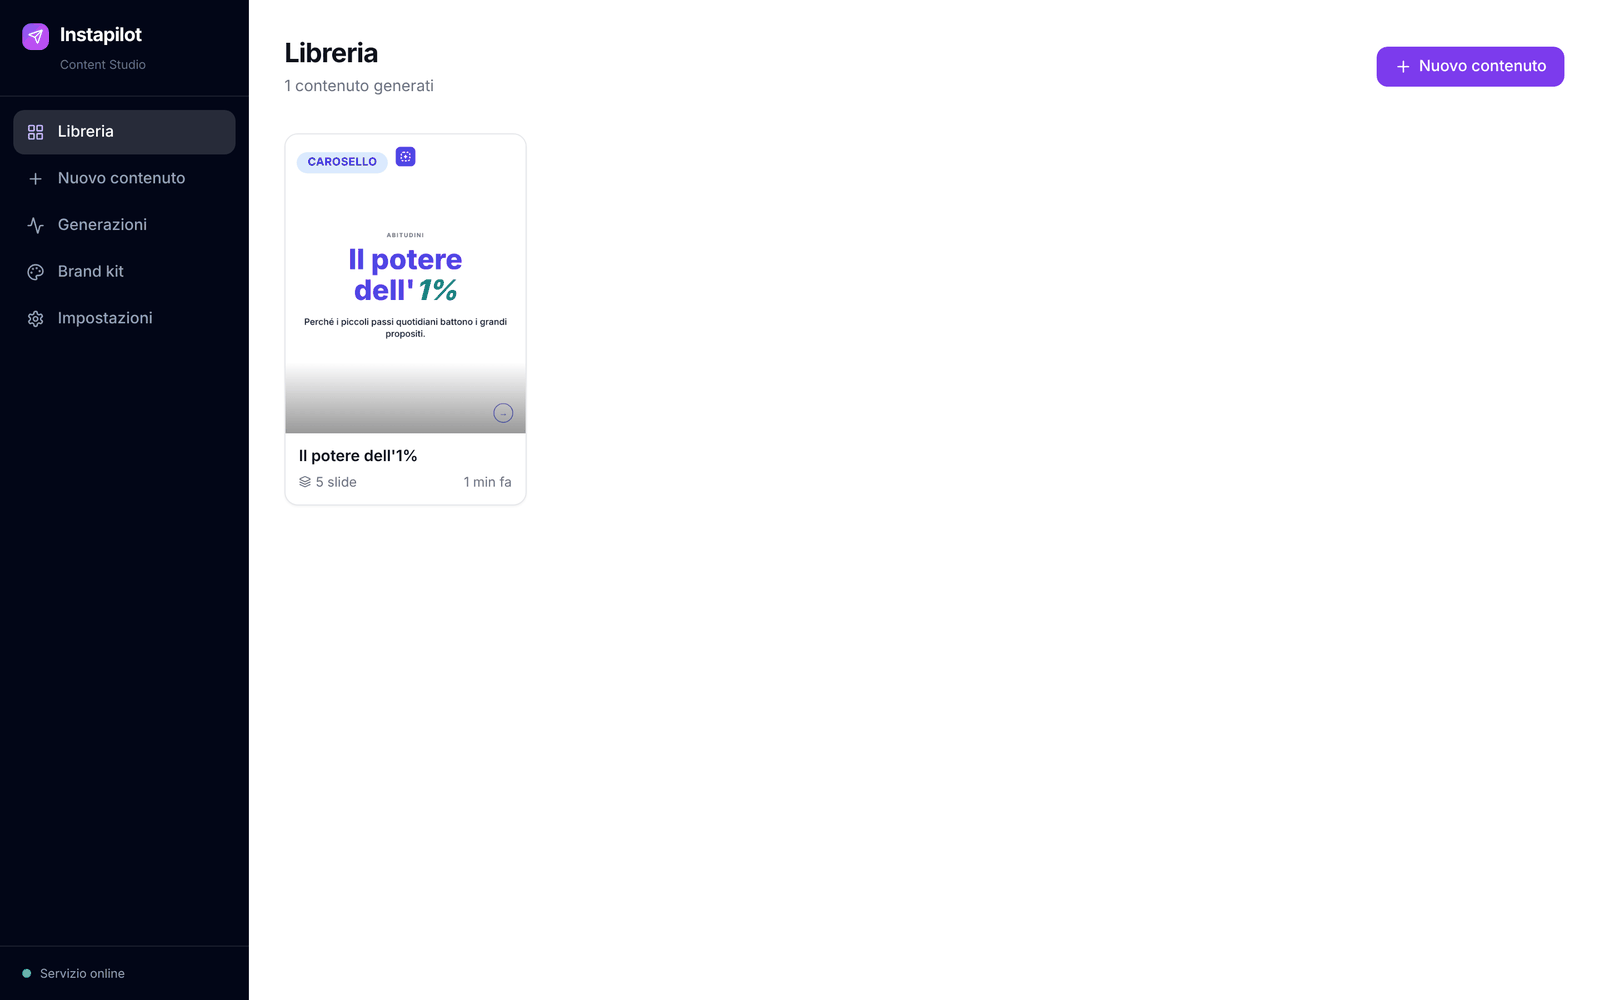
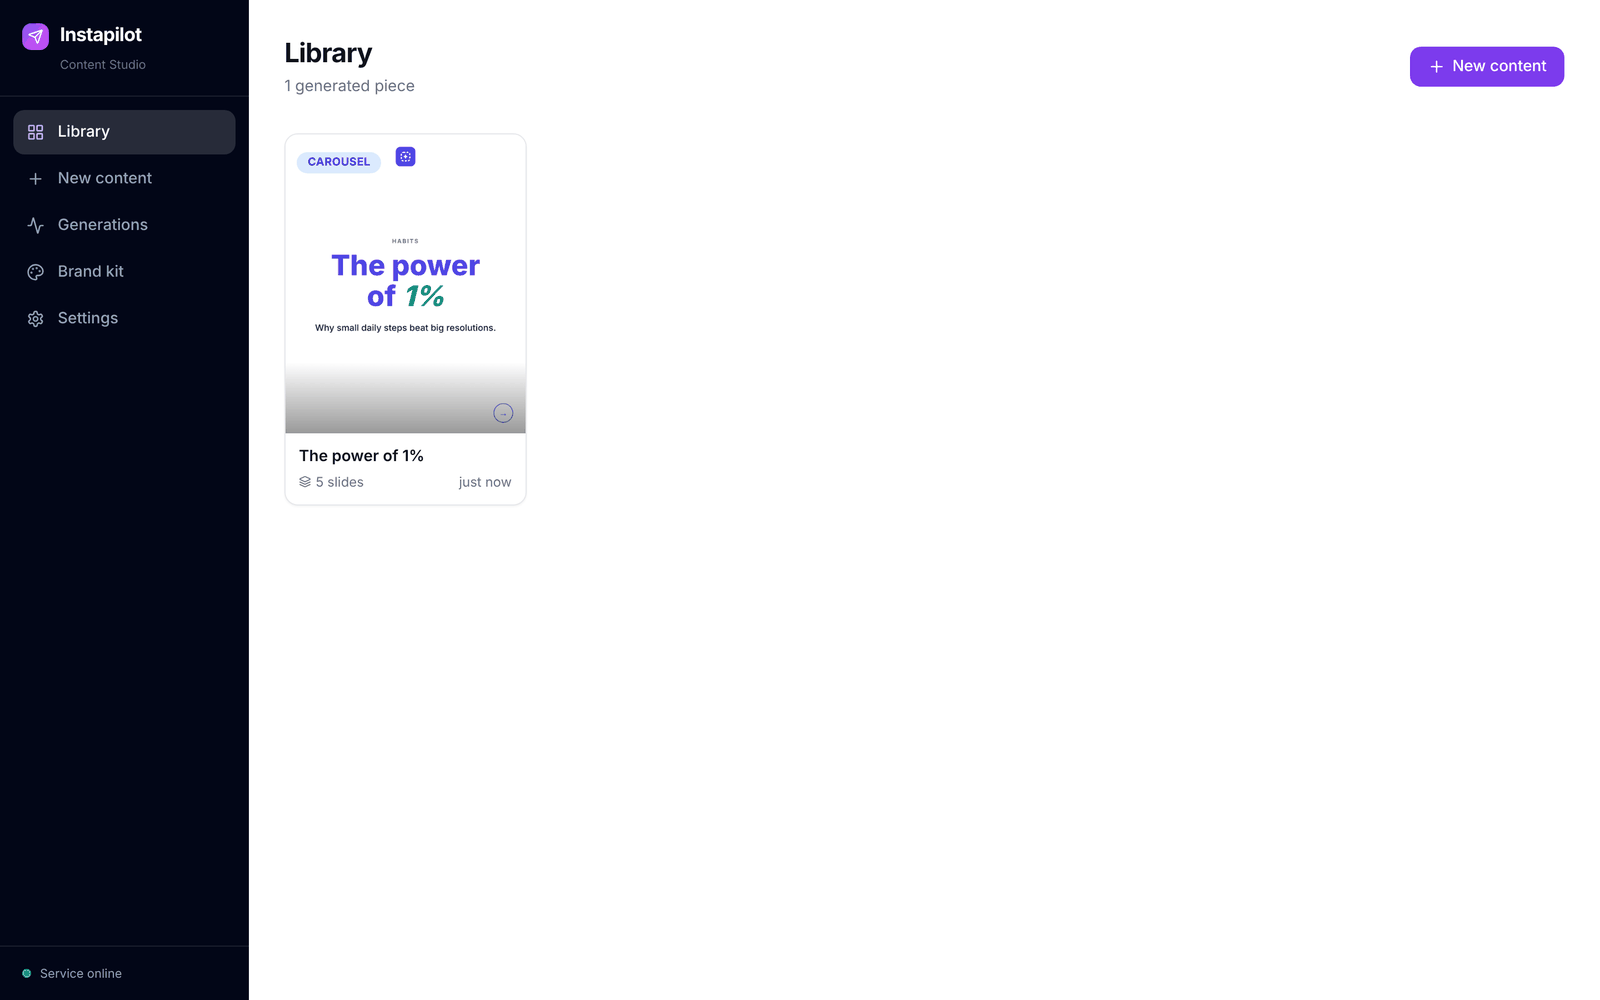
docs: refresh README and screenshots for the English UI
Claude-Session: https://claude.ai/code/session_01D4xZriNxC1abkSzLHtmcJC

diff --git a/README.md b/README.md
@@ -78,8 +78,6 @@ Instapilot covers the whole path, and does it **while respecting your brand**:
 
 ## Screenshots
 
-> The Studio UI is currently in Italian.
-
 <table>
   <tr>
     <td width="50%"><img src="docs/assets/screenshots/library.png" alt="Library"><br><sub><b>Library</b> — every generated piece, with a cover preview.</sub></td>
@@ -175,7 +173,7 @@ and served by the same server: no second process needed.
 
 ### 3. Connect the LLM provider
 
-Go to **Settings** (*Impostazioni*), paste the API key (and optionally base URL and model) and save.
+Go to **Settings**, paste the API key (and optionally base URL and model) and save.
 The configuration stays local in `data/config.json`.
 
 > Alternatively: `cp .env.example .env` and set `OPENAI_API_KEY=sk-...`.
@@ -186,7 +184,7 @@ In **Brand kit** set name, audience, tone, **content language**, the 6 colors, t
 
 ### 5. Generate
 
-**New content** (*Nuovo contenuto*) → write the topic → **Generate**. Follow the progress in
+**New content** → write the topic → **Generate**. Follow the progress in
 *Generations*; when the job finishes the piece shows up in the *Library*.
 
 <details>
